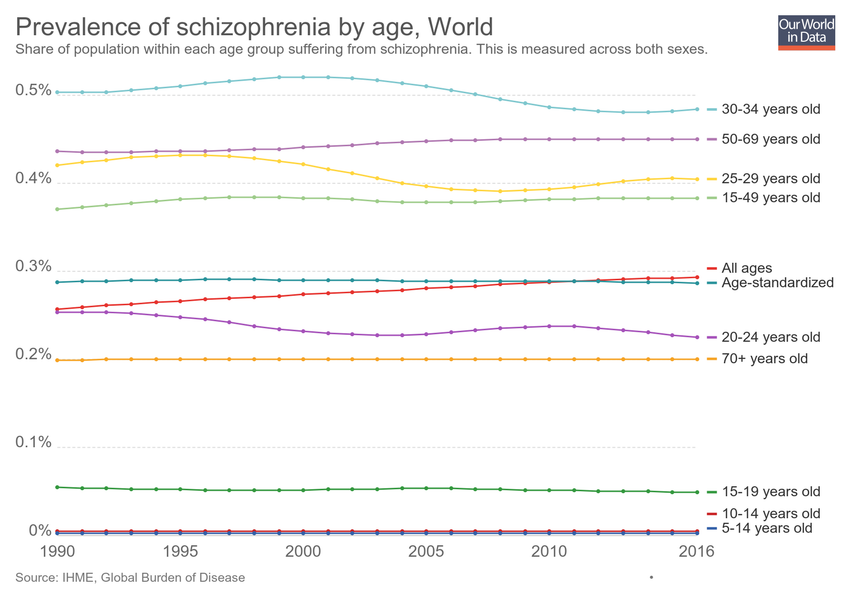
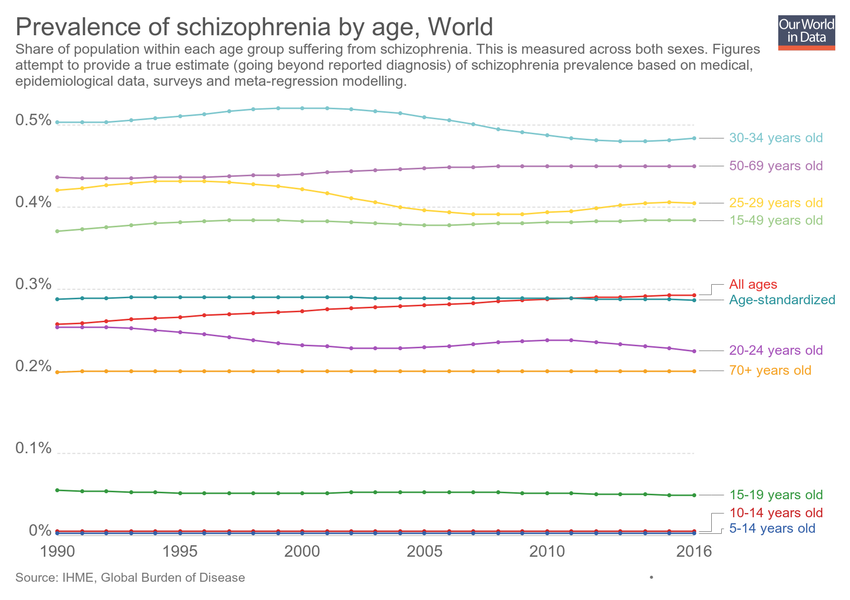
Updating chart prevalence-of-schizophrenia-by-age

diff --git a/grapher/prevalence-of-schizophrenia-in-males-vs-females.html b/grapher/prevalence-of-schizophrenia-in-males-vs-females.html
@@ -1,4 +1,4 @@
-<!doctype html><html><head><meta name="viewport" content="width=device-width, initial-scale=1" /><title>Prevalence of schizophrenia in males vs. females - Our World in Data</title><meta name="description" content="Share of male and female population suffering from schizophrenia. This share has been age-standardized assuming a constant age structure to compare prevalence between countries and through time." /><link rel="canonical" href="https://ourworldindata.org/grapher/prevalence-of-schizophrenia-in-males-vs-females" /><meta property="fb:app_id" content="1149943818390250" /><meta property="og:url" content="https://ourworldindata.org/grapher/prevalence-of-schizophrenia-in-males-vs-females" /><meta property="og:title" content="Prevalence of schizophrenia in males vs. females" /><meta property="og:description" content="Share of male and female population suffering from schizophrenia. This share has been age-standardized assuming a constant age structure to compare prevalence between countries and through time." /><meta property="og:image" content="https://ourworldindata.org/grapher/exports/prevalence-of-schizophrenia-in-males-vs-females.png?v=1" /><meta property="og:image:width" content="850" /><meta property="og:image:height" content="600" /><meta property="og:site_name" content="Our World in Data" /><meta name="twitter:card" content="summary_large_image" /><meta name="twitter:site" content="@OurWorldInData" /><meta name="twitter:creator" content="@OurWorldInData" /><meta name="twitter:title" content="Prevalence of schizophrenia in males vs. females" /><meta name="twitter:description" content="Share of male and female population suffering from schizophrenia. This share has been age-standardized assuming a constant age structure to compare prevalence between countries and through time." /><meta name="twitter:image" content="https://ourworldindata.org/grapher/exports/prevalence-of-schizophrenia-in-males-vs-females.png?v=1" /><style>
+<!doctype html><html><head><meta name="viewport" content="width=device-width, initial-scale=1" /><title>Prevalence of schizophrenia in males vs. females - Our World in Data</title><meta name="description" content="Share of male and female population suffering from schizophrenia. Figures attempt to provide a true estimate (going beyond reported diagnosis) of schizophrenia prevalence based on medical, epidemiological data, surveys and meta-regression modelling." /><link rel="canonical" href="https://ourworldindata.org/grapher/prevalence-of-schizophrenia-in-males-vs-females" /><meta property="fb:app_id" content="1149943818390250" /><meta property="og:url" content="https://ourworldindata.org/grapher/prevalence-of-schizophrenia-in-males-vs-females" /><meta property="og:title" content="Prevalence of schizophrenia in males vs. females" /><meta property="og:description" content="Share of male and female population suffering from schizophrenia. Figures attempt to provide a true estimate (going beyond reported diagnosis) of schizophrenia prevalence based on medical, epidemiological data, surveys and meta-regression modelling." /><meta property="og:image" content="https://ourworldindata.org/grapher/exports/prevalence-of-schizophrenia-in-males-vs-females.png?v=2" /><meta property="og:image:width" content="850" /><meta property="og:image:height" content="600" /><meta property="og:site_name" content="Our World in Data" /><meta name="twitter:card" content="summary_large_image" /><meta name="twitter:site" content="@OurWorldInData" /><meta name="twitter:creator" content="@OurWorldInData" /><meta name="twitter:title" content="Prevalence of schizophrenia in males vs. females" /><meta name="twitter:description" content="Share of male and female population suffering from schizophrenia. Figures attempt to provide a true estimate (going beyond reported diagnosis) of schizophrenia prevalence based on medical, epidemiological data, surveys and meta-regression modelling." /><meta name="twitter:image" content="https://ourworldindata.org/grapher/exports/prevalence-of-schizophrenia-in-males-vs-females.png?v=2" /><style>
         html, body {
             height: 100%;
             margin: 0;
@@ -20,8 +20,8 @@
         }
     </style><noscript><style>
                     figure { display: none !important; }
-                </style></noscript><link rel="stylesheet" href="https://ourworldindata.org/grapher/assets/commons.bundle.ac09ff8f098f0c7be836.css" /><link rel="preload" href="/grapher/data/variables/85325+85326+72+123.json?v=1" as="fetch" crossorigin /></head><body class="singleChart"><figure data-grapher-src="/grapher/prevalence-of-schizophrenia-in-males-vs-females"></figure><noscript id="fallback"><img src="/grapher/exports/prevalence-of-schizophrenia-in-males-vs-females.svg" /><p>Interactive visualization requires JavaScript</p></noscript><script src="https://cdn.polyfill.io/v2/polyfill.min.js?features=es6,fetch"></script><script src="https://ourworldindata.org/grapher/assets/commons.bundle.ac09ff8f098f0c7be836.js"></script><script src="https://ourworldindata.org/grapher/assets/charts.bundle.dcf65b68eddaba4c6a58.js"></script><script>
-        var jsonConfig = {"map":{"projection":"World","colorSchemeLabels":[],"colorSchemeValues":[],"defaultProjection":"World","colorSchemeMinValue":0,"customNumericColors":[],"customCategoryColors":{},"customCategoryLabels":{},"customHiddenCategories":{}},"tab":"chart","slug":"prevalence-of-schizophrenia-in-males-vs-females","type":"ScatterPlot","title":"Prevalence of schizophrenia in males vs. females","xAxis":{"min":0,"scaleType":"linear"},"yAxis":{"min":0,"scaleType":"linear"},"maxTime":2016,"minTime":2016,"version":1,"subtitle":"Share of male and female population suffering from schizophrenia. This share has been age-standardized assuming a constant age structure to compare prevalence between countries and through time.","hasMapTab":false,"stackMode":"absolute","dimensions":[{"display":{"name":"Share of males","unit":"%"},"property":"y","variableId":85325},{"display":{"name":"Share of females","unit":"%"},"property":"x","variableId":85326},{"display":{},"property":"size","variableId":72},{"display":{},"property":"color","variableId":123}],"isAutoSlug":true,"sourceDesc":"IHME, Global Burden of Disease","hasChartTab":true,"isPublished":true,"selectedData":[],"comparisonLine":{},"id":2190};
+                </style></noscript><link rel="stylesheet" href="https://ourworldindata.org/grapher/assets/commons.bundle.ac09ff8f098f0c7be836.css" /><link rel="preload" href="/grapher/data/variables/85325+85326+72+123.json?v=2" as="fetch" crossorigin /></head><body class="singleChart"><figure data-grapher-src="/grapher/prevalence-of-schizophrenia-in-males-vs-females"></figure><noscript id="fallback"><img src="/grapher/exports/prevalence-of-schizophrenia-in-males-vs-females.svg" /><p>Interactive visualization requires JavaScript</p></noscript><script src="https://cdn.polyfill.io/v2/polyfill.min.js?features=es6,fetch"></script><script src="https://ourworldindata.org/grapher/assets/commons.bundle.ac09ff8f098f0c7be836.js"></script><script src="https://ourworldindata.org/grapher/assets/charts.bundle.dcf65b68eddaba4c6a58.js"></script><script>
+        var jsonConfig = {"id":2190,"map":{"projection":"World","colorSchemeLabels":[],"colorSchemeValues":[],"colorSchemeMinValue":0,"customNumericColors":[],"customCategoryColors":{},"customCategoryLabels":{},"customHiddenCategories":{}},"tab":"chart","slug":"prevalence-of-schizophrenia-in-males-vs-females","type":"ScatterPlot","title":"Prevalence of schizophrenia in males vs. females","xAxis":{"min":0,"scaleType":"linear"},"yAxis":{"min":0,"scaleType":"linear"},"maxTime":2016,"minTime":2016,"version":2,"subtitle":"Share of male and female population suffering from schizophrenia. Figures attempt to provide a true estimate (going beyond reported diagnosis) of schizophrenia prevalence based on medical, epidemiological data, surveys and meta-regression modelling.","hasMapTab":false,"stackMode":"absolute","dimensions":[{"display":{"name":"Share of males","unit":"%"},"property":"y","variableId":85325},{"display":{"name":"Share of females","unit":"%"},"property":"x","variableId":85326},{"display":{},"property":"size","variableId":72},{"display":{},"property":"color","variableId":123}],"sourceDesc":"IHME, Global Burden of Disease","hasChartTab":true,"isPublished":true,"selectedData":[],"comparisonLine":{}};
         var figure = document.getElementsByTagName("figure")[0];
         try {
             window.App = {};
